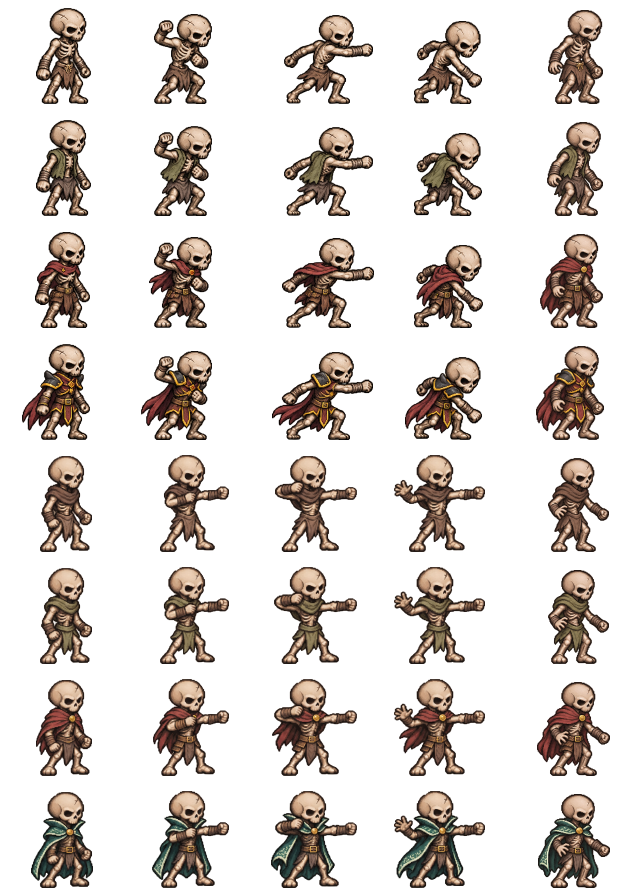
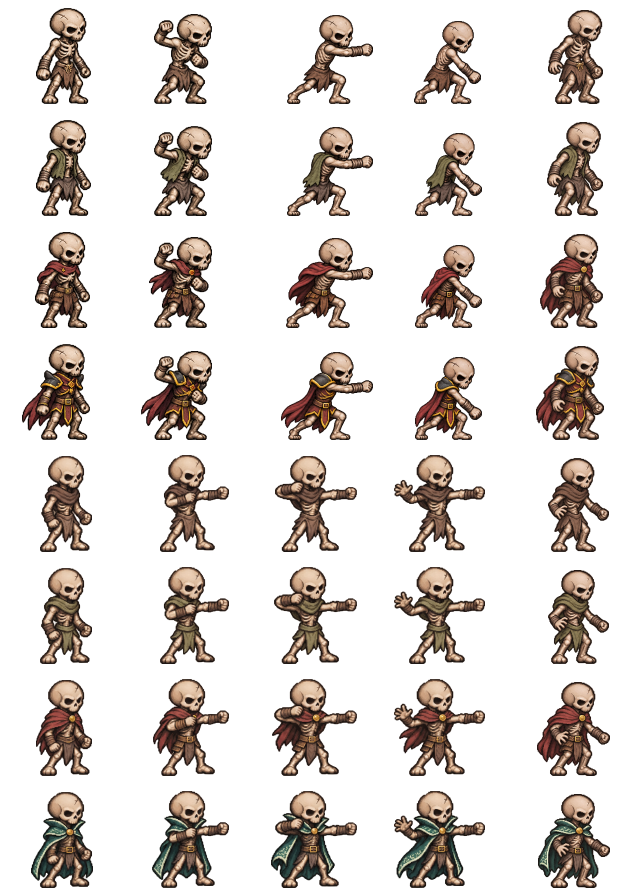
Occlude the far arm during skeleton sword strikes

Changed region(s): [[0.4062, 0.0312, 0.5938, 0.5], [0.625, 0.0, 0.75, 0.5]]

diff --git a/scripts/import_summon_attacks.py b/scripts/import_summon_attacks.py
@@ -1,4 +1,4 @@
-"""Pack swordsman and archer pose sheets, plus the separate recovery sheet."""
+"""Pack combat body poses and preserve weapon grips across sword silhouette edits."""
 
 from argparse import ArgumentParser
 from pathlib import Path
@@ -27,6 +27,7 @@ RECOVERY = (
     ((223, (337, 259), (164, 251)), (222, (335, 260), (166, 250)),
      (223, (336, 259), (169, 253)), (225, (338, 261), (170, 253))),
 )
+REVISED_GRIPS = ((466, 330), (407, 456))
 
 
 def cell(sheet, row, col, rows):
@@ -55,16 +56,35 @@ def place(atlas, sprite, frame, row, scale, root, grip, draw_hand=None):
                  zip(points, ((x, left), (y, top), (x, left), (y, top))))
 
 
-def pack(sword, archer, recovery, output):
+def fit_sword_edit(original, edited, scale, root, original_grip, edited_grip):
+    left, top, _, bottom = bounds(original)
+    grip_x = ROOT_X + round((left - root) * scale) + round((original_grip[0] - left) * scale)
+    new_left, new_top, _, new_bottom = bounds(edited)
+    new_scale = round((bottom - top) * scale) / (new_bottom - new_top)
+    grip_offset = round((edited_grip[0] - new_left) * new_scale)
+    new_root = new_left + (ROOT_X + grip_offset - grip_x) / new_scale
+    return new_scale, new_root
+
+
+def pack(sword, archer, recovery, contact, follow_through, output):
     atlas = Image.new("RGBA", (CELL_WIDTH * 5, CELL_HEIGHT * 8))
     anchors = []
+    revised_sword = {2: (contact, REVISED_GRIPS[0]), 3: (follow_through, REVISED_GRIPS[1])}
     for family, (sheet, poses) in enumerate(((sword, SWORD), (archer, ARCHER))):
         for rank in range(4):
             row = family * 4 + rank
             _, top, _, bottom = bounds(cell(sheet, rank, 0, 4))
             scale = BODY_HEIGHT / (bottom - top)
-            points = [place(atlas, cell(sheet, rank, frame, 4), frame, row, scale, *pose)
-                      for frame, pose in enumerate(poses)]
+            points = []
+            for frame, pose in enumerate(poses):
+                original = cell(sheet, rank, frame, 4)
+                if family == 0 and frame in revised_sword:
+                    strip, grip = revised_sword[frame]
+                    edited = cell(strip, 0, rank, 1)
+                    edit_scale, root = fit_sword_edit(original, edited, scale, *pose, grip)
+                    points.append(place(atlas, edited, frame, row, edit_scale, root, grip))
+                else:
+                    points.append(place(atlas, original, frame, row, scale, *pose))
             change = cell(recovery, family, rank, 2)
             _, top, _, bottom = bounds(change)
             points.append(place(atlas, change, 4, row, BODY_HEIGHT / (bottom - top + 10), *RECOVERY[family][rank]))
@@ -79,8 +99,12 @@ def pack(sword, archer, recovery, output):
 
 if __name__ == "__main__":
     cli = ArgumentParser(description=__doc__)
-    for name in ("sword", "archer", "recovery"):
+    sheets = ("sword", "archer", "recovery", "contact", "follow_through")
+    for name in sheets:
         cli.add_argument(name, type=Path)
     args = cli.parse_args()
-    inputs = [Image.open(file).convert("RGBA") for file in (args.sword, args.archer, args.recovery)]
+    inputs = []
+    for name in sheets:
+        with Image.open(getattr(args, name)) as image:
+            inputs.append(image.convert("RGBA"))
     pack(*inputs, Path(__file__).resolve().parents[1] / "game/assets")
